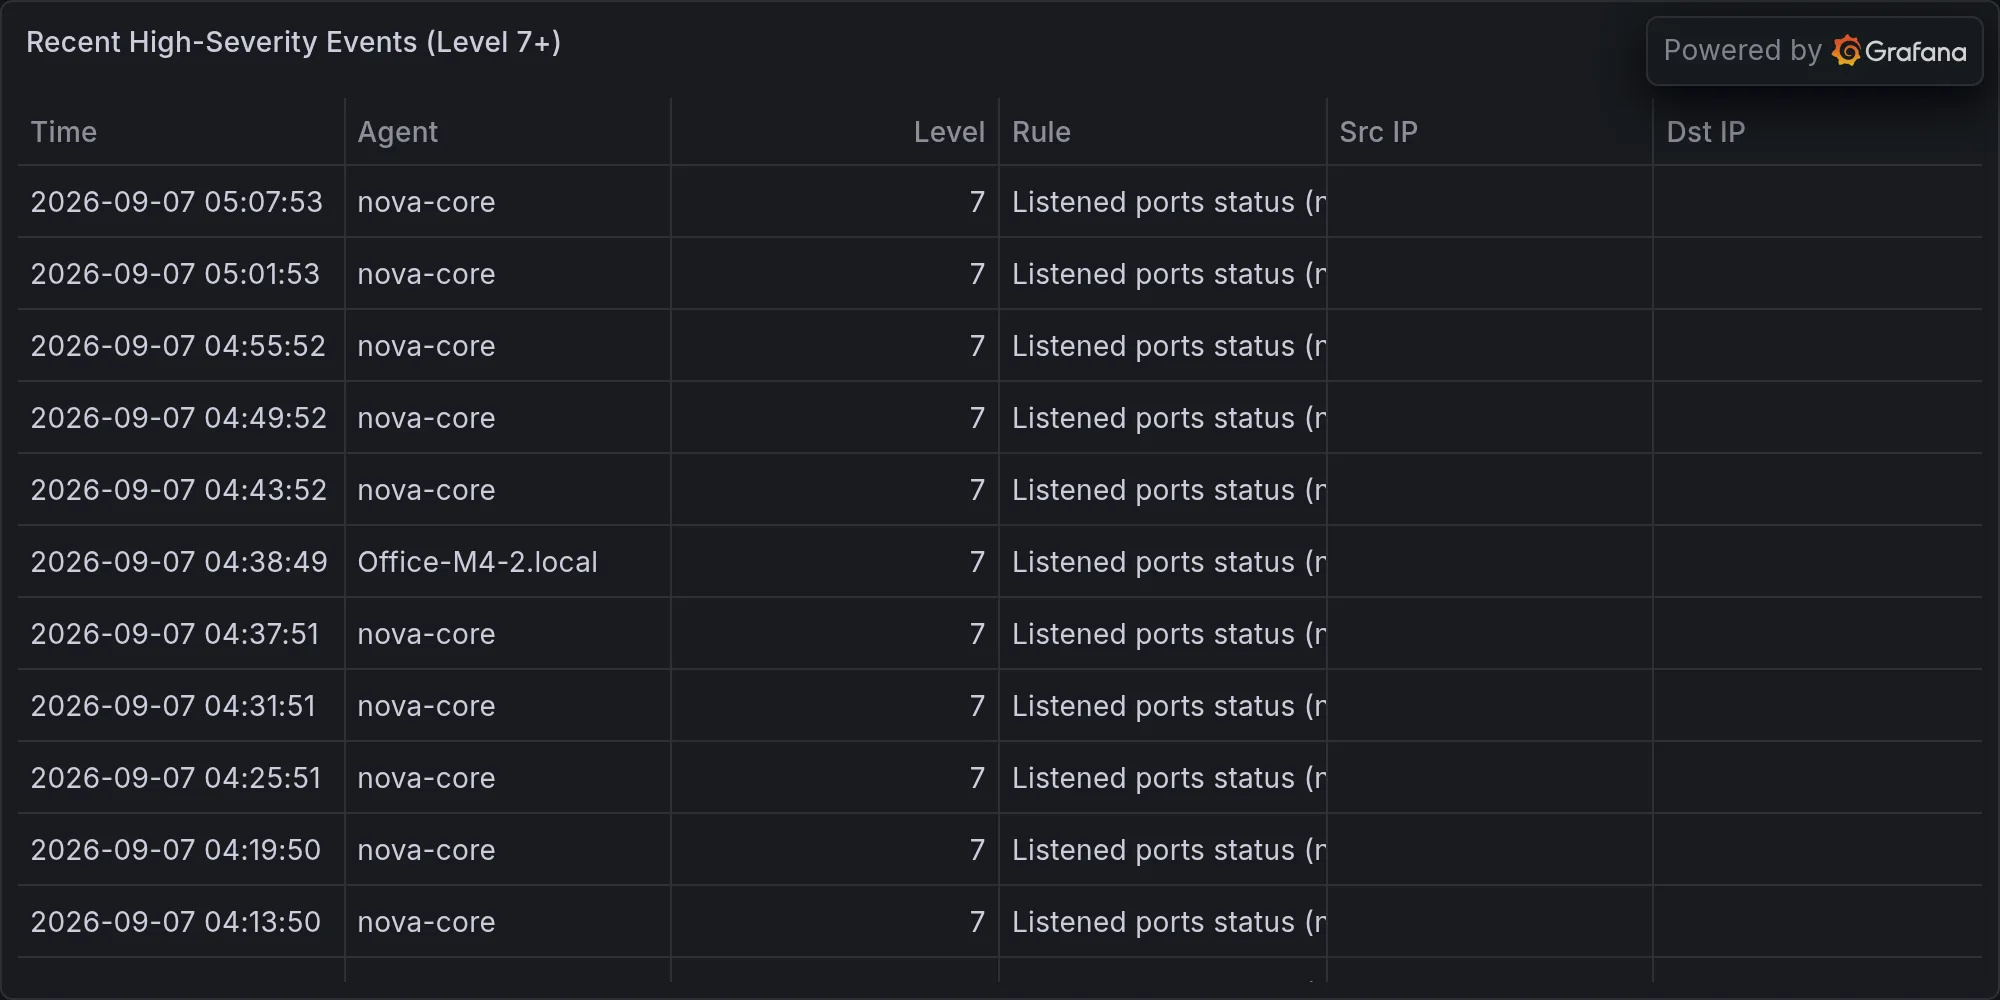
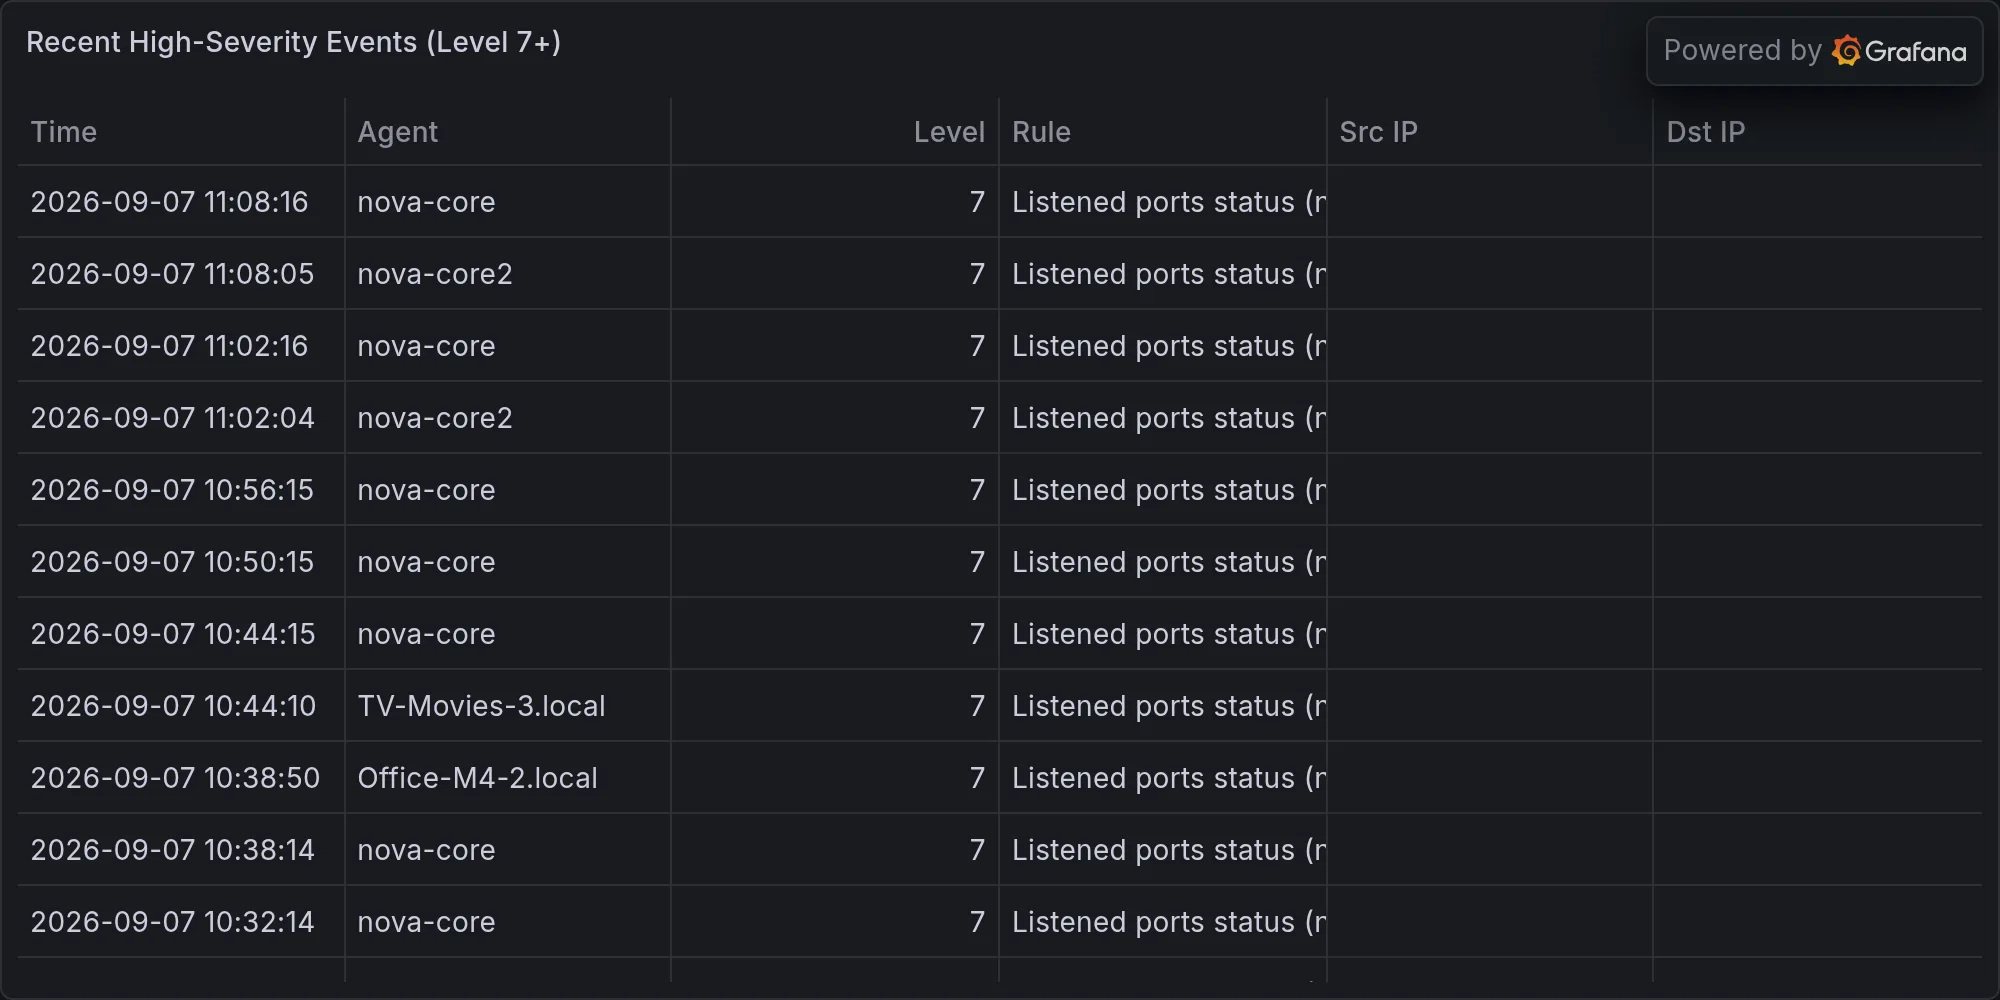
security: 2026-09-07 — **DEVELOPING — CISA Retires Critical Infrastructur

diff --git a/content/operations/2026-09-07-developing-cisa-retires-critical-infrastructure-assessments-.md b/content/operations/2026-09-07-developing-cisa-retires-critical-infrastructure-assessments-.md
@@ -1,0 +1,53 @@
+---
+title: "🛡 **DEVELOPING — CISA Retires Critical Infrastructure Assessments Amid Workforce Constraints**"
+date: 2026-09-07T11:12:20-07:00
+draft: false
+categories: ["operations"]
+tags: ["breaking-alert", "industrial-cyber-cisa-retires-six-cybers", "security"]
+description: "BREAKING: Industrial Cyber: CISA retires six cybersecurity assessments for critical infrastructure amid rising"
+cover:
+  image: "/images/operations/2026-09-07-developing-cisa-retires-critical-infrastructure-assessments-.webp"
+  alt: "**DEVELOPING — CISA Retires Critical Infrastructure Assessments Amid Workforce Constraints**"
+  relative: false
+---
+
+*Published Monday, September 07, 2026 at 11:12 AM PT*
+
+![**DEVELOPING — CISA Retires Critical Infrastructure Assessments Amid Workforce Constraints**](/images/operations/2026-09-07-developing-cisa-retires-critical-infrastructure-assessments-.webp)
+
+**BLUF:** CISA is discontinuing six free cybersecurity assessments for critical infrastructure operators. Details remain limited; the agency has not yet published full scope of which assessments are affected or migration guidance. Organizations relying on these tools should inventory current usage and identify alternatives immediately. **Status: Unconfirmed specifics pending official CISA advisory.**
+
+**DETAILS**
+
+- CISA is retiring (scaling back/discontinuing) six free cybersecurity assessments previously available to critical infrastructure organizations.
+- Retirement is attributed to rising threat volumes and internal workforce pressures limiting CISA's capacity to maintain these programs.
+- Assessments were voluntary and provided at no cost to CI operators for self-evaluation and gap identification.
+- No confirmed timeline for full retirement, effective date, or transition period disclosed in available material.
+- Related CISA initiatives remain active (threat hunting, red team assessments, Internet Exposure Reduction guidance, OT/ICS security programs).
+
+**IMPACT**
+
+- **Scope:** Critical infrastructure operators (energy, water, transportation, communications, manufacturing) in the U.S. who relied on free CISA assessments for security posture evaluation.
+- **Risk:** Loss of standardized, federal assessment tools may increase fragmentation — CI organizations will seek alternative (potentially paid/third-party) assessment providers or operate without structured self-evaluation.
+- **Downstream:** Reduced visibility into critical infrastructure cyber hygiene at a time when CISA is simultaneously warning of active threats to industrial control systems (recent Siemens S7 PLC advisories, Minnesota utility attacks).
+
+**RECOMMENDED ACTIONS**
+
+1. **Immediate:** Audit which CISA assessments your organization currently uses or relies on.
+2. **This week:** Monitor CISA.gov and subscribe to official CISA alerts for the formal announcement and retirement timeline.
+3. **Parallel path:** Begin evaluating alternative assessment frameworks (NIST CSF, IEC 62443, vendor-specific tools).
+4. **Escalate:** If you operate critical infrastructure, flag this to your CISO/security leadership before these tools are unavailable.
+
+**SOURCES**
+
+- Industrial Cyber (truncated excerpt — full article not available)
+- Nova system memory (CISA initiatives index)
+- CISA.gov alerts (related: S7 PLC threats, threat hunting findings, CI isolation guidance)
+
+**Note:** Full CISA advisory details (which six assessments, retirement dates, official guidance) not yet confirmed. This alert will update when CISA releases the formal notice.
+
+---
+
+**Recent high-severity events at publish time:**
+
+![Recent high-severity events](/images/operations/2026-09-07-breaking-alert-posture.webp)
